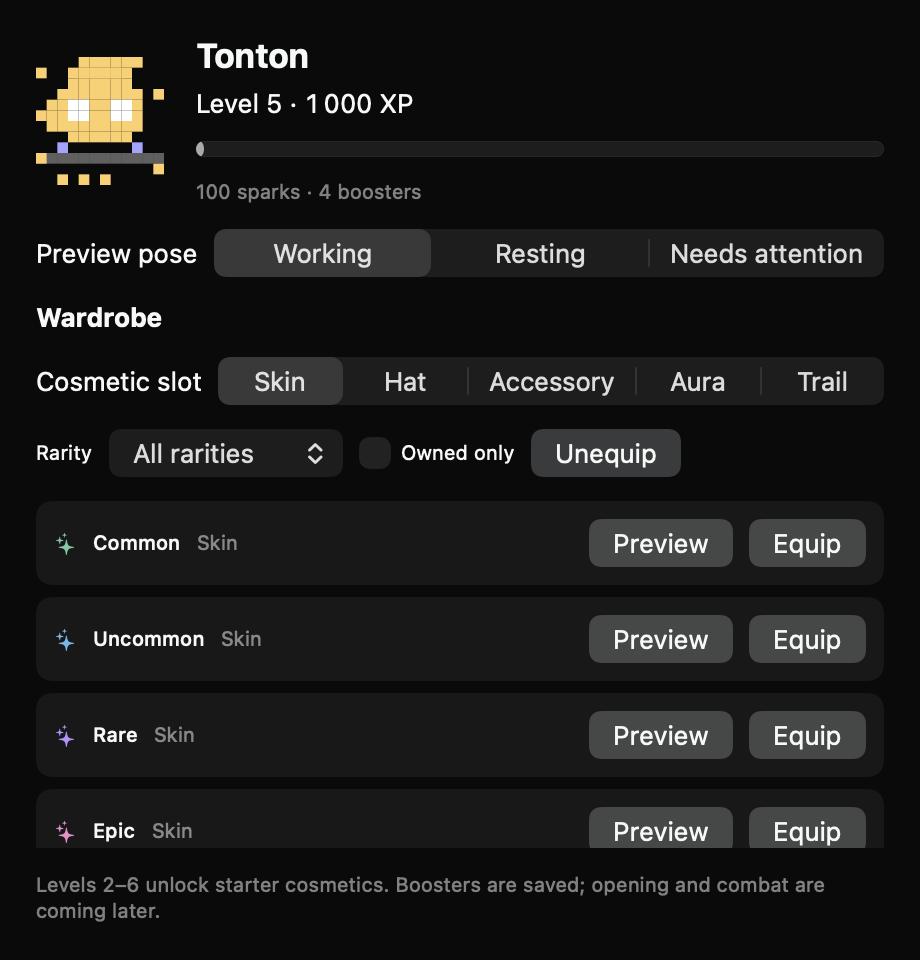
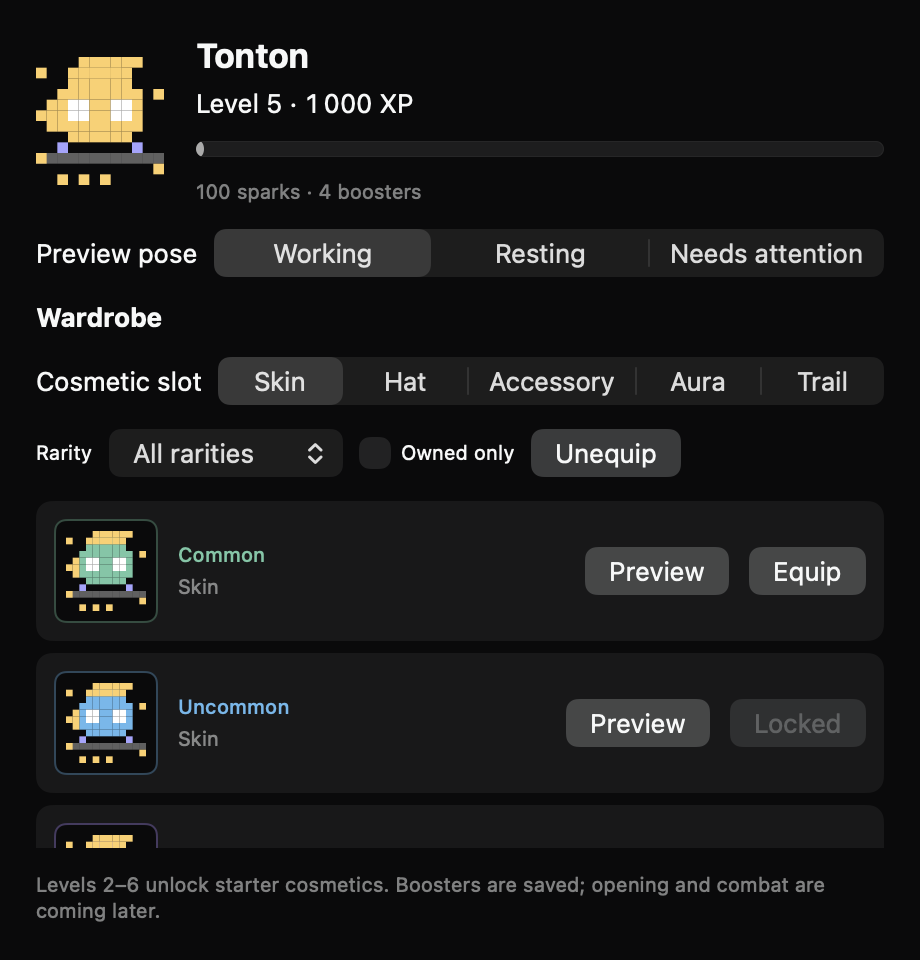
feat(app): preview each cosmetic in the wardrobe

diff --git a/app/Sources/TontonClaude/Notch/RPGView.swift b/app/Sources/TontonClaude/Notch/RPGView.swift
@@ -55,10 +55,14 @@ struct RPGPanel: View {
     @State private var pose: SessionStatus = .working
 
     private var previewHero: RPG.State {
+        previewHero(wearing: preview)
+    }
+
+    private func previewHero(wearing item: RPG.Item?) -> RPG.State {
         var state = hero
-        if let preview {
-            if !state.owned.contains(preview.id) { state.owned.append(preview.id) }
-            try? state.equip(preview.id, in: preview.slot)
+        if let item {
+            if !state.owned.contains(item.id) { state.owned.append(item.id) }
+            try? state.equip(item.id, in: item.slot)
         }
         return state
     }
@@ -116,10 +120,28 @@ struct RPGPanel: View {
     private func itemRow(_ item: RPG.Item) -> some View {
         let owned = hero.owned.contains(item.id)
         let equipped = hero.equipped[item.slot.rawValue] == item.id
-        return HStack {
-            Image(systemName: owned ? "sparkles" : "lock.fill").foregroundStyle(Color(hex: item.color))
-            Text(item.rarity.label).fontWeight(.medium)
-            Text(item.slot.label).foregroundStyle(.secondary)
+        return HStack(spacing: 10) {
+            Button {
+                preview = item
+            } label: {
+                MascotView(status: pose, size: 40, hero: previewHero(wearing: item))
+                    .accessibilityHidden(true)
+                    .padding(6)
+                    .background(RoundedRectangle(cornerRadius: 6).fill(Theme.bg))
+                    .overlay {
+                        RoundedRectangle(cornerRadius: 6)
+                            .strokeBorder(Color(hex: item.color).opacity(preview?.id == item.id ? 1 : 0.35), lineWidth: 1)
+                    }
+            }
+            .buttonStyle(.plain)
+            .accessibilityLabel(Text(item.rarity.label))
+            .accessibilityValue(Text(item.slot.label))
+            .accessibilityHint("Preview")
+            .help("Preview")
+            VStack(alignment: .leading, spacing: 3) {
+                Text(item.rarity.label).fontWeight(.medium).foregroundStyle(Color(hex: item.color))
+                Text(item.slot.label).foregroundStyle(.secondary)
+            }
             Spacer()
             Button("Preview") { preview = item }
             Button(equipped ? "Equipped" : owned ? "Equip" : "Locked") { equip(item, item.slot) }
